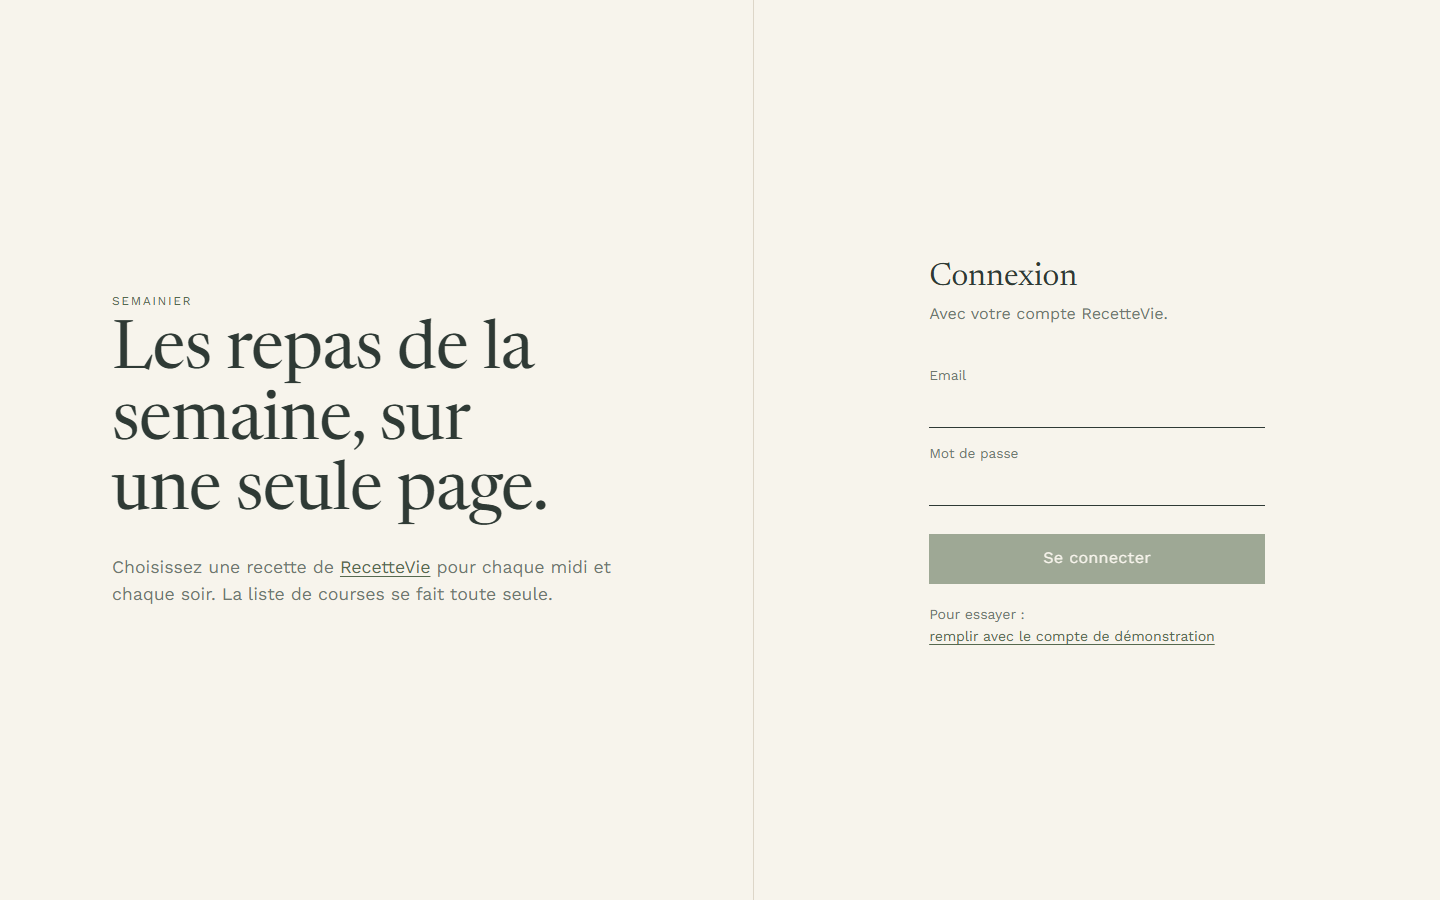
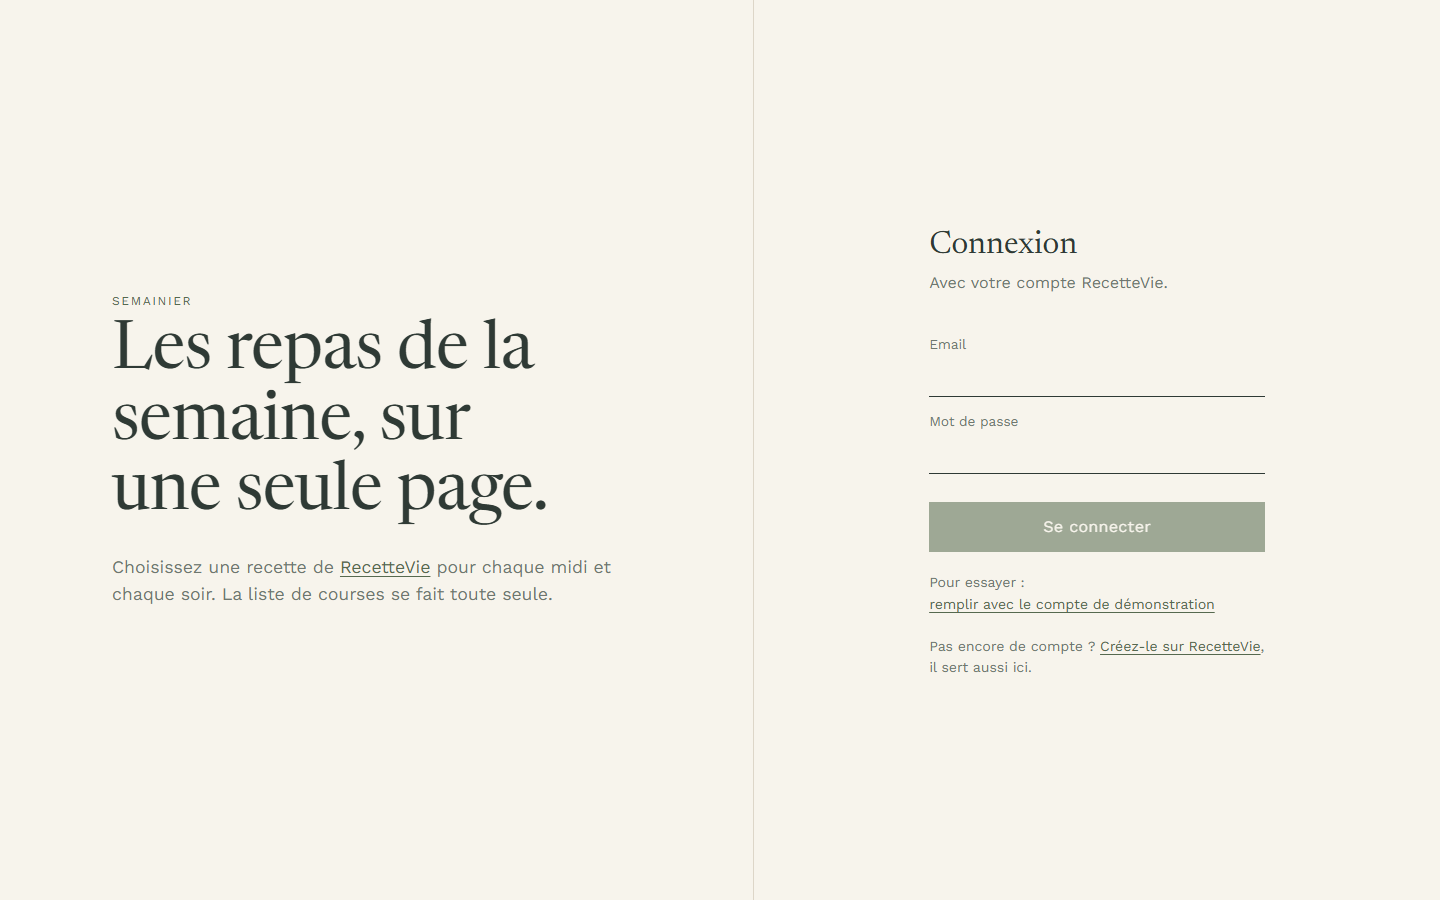
Link back to RecetteVie from the header and the login screen

Changed region(s): [[0.625, 0.56, 0.9062, 0.7467], [0.6562, 0.2489, 0.8125, 0.3733], [0.6562, 0.4667, 0.7188, 0.5289]]

diff --git a/src/components/Planner.jsx b/src/components/Planner.jsx
@@ -5,6 +5,7 @@ import { buildShoppingList } from '../lib/shopping.js'
 import MealSlot from './MealSlot.jsx'
 import RecipePicker from './RecipePicker.jsx'
 import ShoppingList from './ShoppingList.jsx'
+import { RECETTEVIE_URL } from '../lib/links.js'
 
 const MEALS = [
   { key: 'lunch', label: 'Midi' },
@@ -68,7 +69,10 @@ export default function Planner({ token, firstname, onLogout, today }) {
   return (
     <div className="page">
       <header className="masthead">
-        <p className="brand">Semainier</p>
+        <div className="masthead-start">
+          <p className="brand">Semainier</p>
+          <a className="back-link" href={RECETTEVIE_URL}>Toutes les recettes sur RecetteVie</a>
+        </div>
         <p className="account">
           {firstname ? `Bonjour ${firstname}` : 'Connecté'}
           <button type="button" className="link" onClick={() => onLogout()}>Se déconnecter</button>
@@ -111,11 +115,11 @@ export default function Planner({ token, firstname, onLogout, today }) {
       </main>
 
       <footer className="footer">
-        <p>Semainier · projet portfolio de puremax-lab · recettes et photos de <a href="https://puremax-lab.alwaysdata.net/recettevie">RecetteVie</a></p>
+        <p>Semainier · projet portfolio de puremax-lab · recettes et photos de <a href={RECETTEVIE_URL}>RecetteVie</a></p>
         <p>
           <a href="https://github.com/puremax-lab/Semainier">Code source</a>
           <a href="https://github.com/puremax-lab">GitHub puremax-lab</a>
-          <a href="https://puremax-lab.alwaysdata.net/recettevie/mentions-legales">Mentions légales</a>
+          <a href={`${RECETTEVIE_URL}/mentions-legales`}>Mentions légales</a>
         </p>
       </footer>
 

diff --git a/src/components/LoginScreen.jsx b/src/components/LoginScreen.jsx
@@ -1,5 +1,6 @@
 import { useState } from 'react'
 import { login } from '../lib/api.js'
+import { RECETTEVIE_URL } from '../lib/links.js'
 
 const DEMO_ACCOUNT = { email: 'camille@recettevie.test', password: 'password' }
 
@@ -32,7 +33,7 @@ export default function LoginScreen({ notice, onLogin }) {
         <p className="kicker">Semainier</p>
         <h1>Les repas de la semaine, sur une seule page.</h1>
         <p className="lead">
-          Choisissez une recette de <a href="https://puremax-lab.alwaysdata.net/recettevie">RecetteVie</a> pour
+          Choisissez une recette de <a href={RECETTEVIE_URL}>RecetteVie</a> pour
           chaque midi et chaque soir. La liste de courses se fait toute seule.
         </p>
       </div>
@@ -55,6 +56,9 @@ export default function LoginScreen({ notice, onLogin }) {
 
         <p className="demo">
           Pour essayer : <button type="button" className="link" onClick={fillDemo}>remplir avec le compte de démonstration</button>
+        </p>
+        <p className="demo">
+          Pas encore de compte ? <a href={`${RECETTEVIE_URL}/inscription`}>Créez-le sur RecetteVie</a>, il sert aussi ici.
         </p>
       </form>
     </main>

diff --git a/src/components/MealSlot.jsx b/src/components/MealSlot.jsx
@@ -1,6 +1,7 @@
 import { imageUrl } from '../lib/api.js'
 import { formatDuration } from '../lib/format.js'
 import RecipeImage from './RecipeImage.jsx'
+import { RECETTEVIE_URL } from '../lib/links.js'
 
 export default function MealSlot({ label, entry, onAdd, onRemove }) {
   if (!entry) {
@@ -18,7 +19,7 @@ export default function MealSlot({ label, entry, onAdd, onRemove }) {
       <span className="slot-label">{label}</span>
       <RecipeImage src={imageUrl(recipe.imageName)} title={recipe.title} />
       <h3 className="slot-title">
-        <a href={`https://puremax-lab.alwaysdata.net/recettevie/recettes/${recipe.slug}-${recipe.id}`} target="_blank" rel="noopener">{recipe.title}</a>
+        <a href={`${RECETTEVIE_URL}/recettes/${recipe.slug}-${recipe.id}`} target="_blank" rel="noopener">{recipe.title}</a>
       </h3>
       <p className="slot-meta">{formatDuration(recipe.duration)}</p>
       <div className="slot-actions">

diff --git a/src/index.css b/src/index.css
@@ -59,6 +59,8 @@ img { display: block; max-width: 100%; }
 .page { max-width: 88rem; margin: 0 auto; padding: 0 clamp(1rem, 3vw, 2.5rem); }
 .masthead { display: flex; justify-content: space-between; align-items: baseline; gap: 1rem; padding: 1.25rem 0; border-bottom: 1px solid var(--ink); }
 .brand { font-family: var(--serif); font-style: italic; font-size: 1.6rem; margin: 0; }
+.masthead-start { display: flex; align-items: baseline; flex-wrap: wrap; gap: .25rem 1.25rem; }
+.back-link { font-size: .9rem; }
 .account { margin: 0; font-size: .9rem; display: flex; gap: 1rem; align-items: baseline; }
 
 .week-head { display: flex; justify-content: space-between; align-items: flex-end; flex-wrap: wrap; gap: 1rem 2rem; padding: 2.5rem 0 1.5rem; }

diff --git a/src/components/Planner.test.jsx b/src/components/Planner.test.jsx
@@ -39,6 +39,14 @@ describe('Planner', () => {
     expect(within(list).getByText('2 sur 2 à acheter')).toBeInTheDocument()
   })
 
+  it('links back to RecetteVie from the header', async () => {
+    mockApi()
+    render(<Planner token="t" onLogout={() => {}} today={monday} />)
+
+    expect(screen.getByRole('link', { name: 'Toutes les recettes sur RecetteVie' })).toHaveAttribute('href', 'https://puremax-lab.alwaysdata.net/recettevie')
+    await screen.findByRole('region', { name: 'Liste de courses' })
+  })
+
   it('asks the API for the displayed week only', async () => {
     const calls = mockApi()
     render(<Planner token="t" onLogout={() => {}} today={monday} />)

diff --git a/src/components/LoginScreen.test.jsx b/src/components/LoginScreen.test.jsx
@@ -16,6 +16,12 @@ describe('LoginScreen', () => {
     expect(JSON.parse(fetch.mock.calls[0][1].body)).toEqual({ email: 'camille@recettevie.test', password: 'password' })
   })
 
+  it('sends visitors without an account to the RecetteVie sign-up page', () => {
+    render(<LoginScreen onLogin={() => {}} />)
+
+    expect(screen.getByRole('link', { name: 'Créez-le sur RecetteVie' })).toHaveAttribute('href', 'https://puremax-lab.alwaysdata.net/recettevie/inscription')
+  })
+
   it('shows an error for a wrong password', async () => {
     vi.spyOn(globalThis, 'fetch').mockResolvedValue(new Response('{}', { status: 401 }))
     render(<LoginScreen onLogin={() => {}} />)

diff --git a/src/lib/links.js b/src/lib/links.js
@@ -1,0 +1,2 @@
+// Pages of RecetteVie, the site Semainier is built on: recipes, accounts and legal notice live there.
+export const RECETTEVIE_URL = 'https://puremax-lab.alwaysdata.net/recettevie'

diff --git a/README.md b/README.md
@@ -18,7 +18,7 @@ Click **remplir avec le compte de démonstration**, then **Se connecter** (it is
 
 ## Two apps, one API
 
-Semainier has no server of its own. It is a front end for [RecetteVie](https://github.com/puremax-lab/RecetteVie), my Symfony recipe website, to which I added a REST API with API Platform. The recipes, the accounts and the meal plans all live in RecetteVie, and RecetteVie links to Semainier from its menu, its home page and its footer: for a visitor, the two apps feel like one site.
+Semainier has no server of its own. It is a front end for [RecetteVie](https://github.com/puremax-lab/RecetteVie), my Symfony recipe website, to which I added a REST API with API Platform. The recipes, the accounts and the meal plans all live in RecetteVie, and RecetteVie links to Semainier from its menu, its home page and its footer, and Semainier links back from its header ("Toutes les recettes sur RecetteVie") and its login screen, where a visitor without an account is sent to the RecetteVie sign-up page: for a visitor, the two apps feel like one site.
 
 ```mermaid
 sequenceDiagram
@@ -53,7 +53,7 @@ sequenceDiagram
 - **Side panel** with the native `<dialog>` element: focus kept inside, closed with Escape.
 - **Shopping list logic** as a pure function ([`shopping.js`](src/lib/shopping.js)): lines are compared without case, accents or extra spaces ("3 œufs" and "3 oeufs" stay apart, "Sel, poivre" and "sel, poivre" merge).
 - **One domain online**: both apps are served from `puremax-lab.alwaysdata.net`, so the browser needs no CORS. In development, Vite forwards `/api` to RecetteVie ([`vite.config.js`](vite.config.js)).
-- **Tests** with Vitest and Testing Library (16 tests): dates, shopping list, session, login screen, and the planner with a mocked API (plan, remove, logout on 401). They run on every push with GitHub Actions, with the linter (oxlint) and the build.
+- **Tests** with Vitest and Testing Library (18 tests): dates, shopping list, session, login screen, the links back to RecetteVie, and the planner with a mocked API (plan, remove, logout on 401). They run on every push with GitHub Actions, with the linter (oxlint) and the build.
 
 On the RecetteVie side, the API work is described in [its README](https://github.com/puremax-lab/RecetteVie#technical-highlights): read-only recipes, a `MealPlanEntry` resource limited to its owner, JWT login.
 
